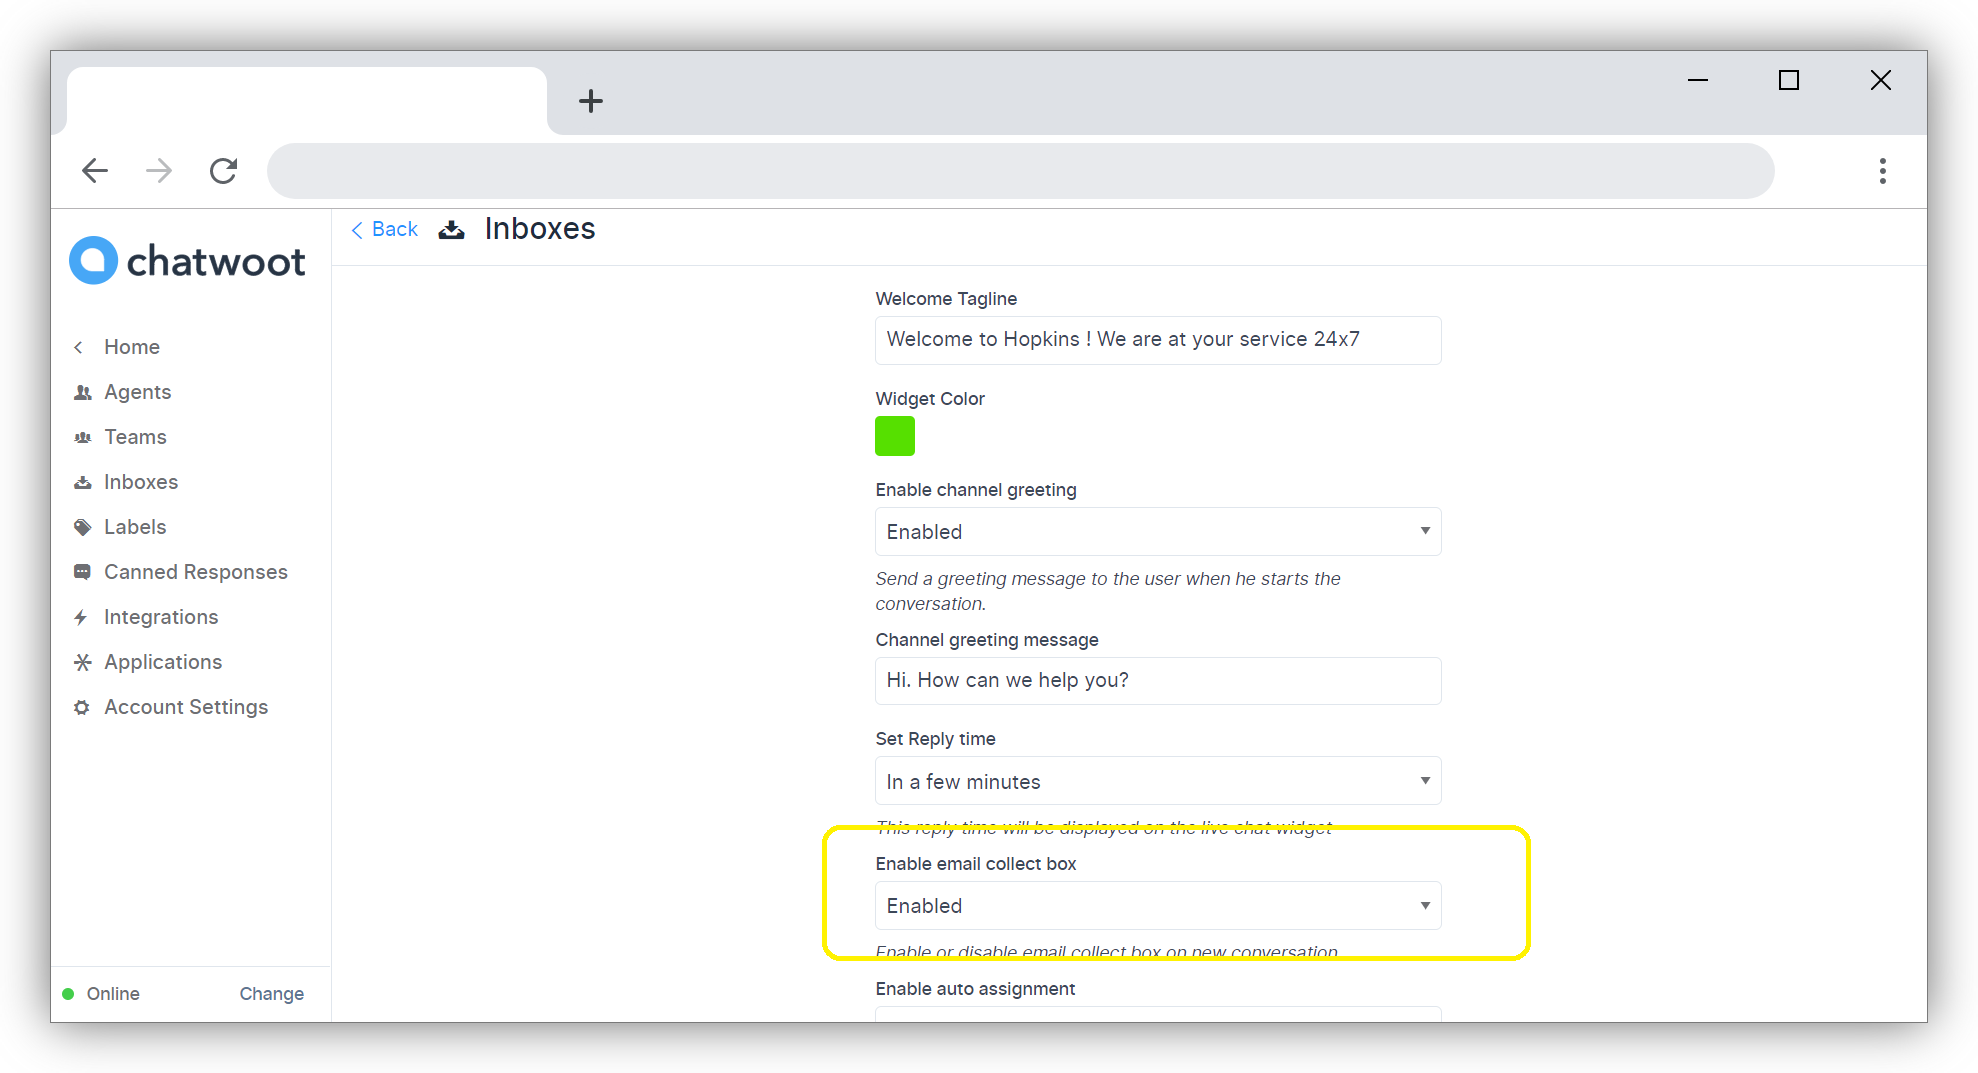
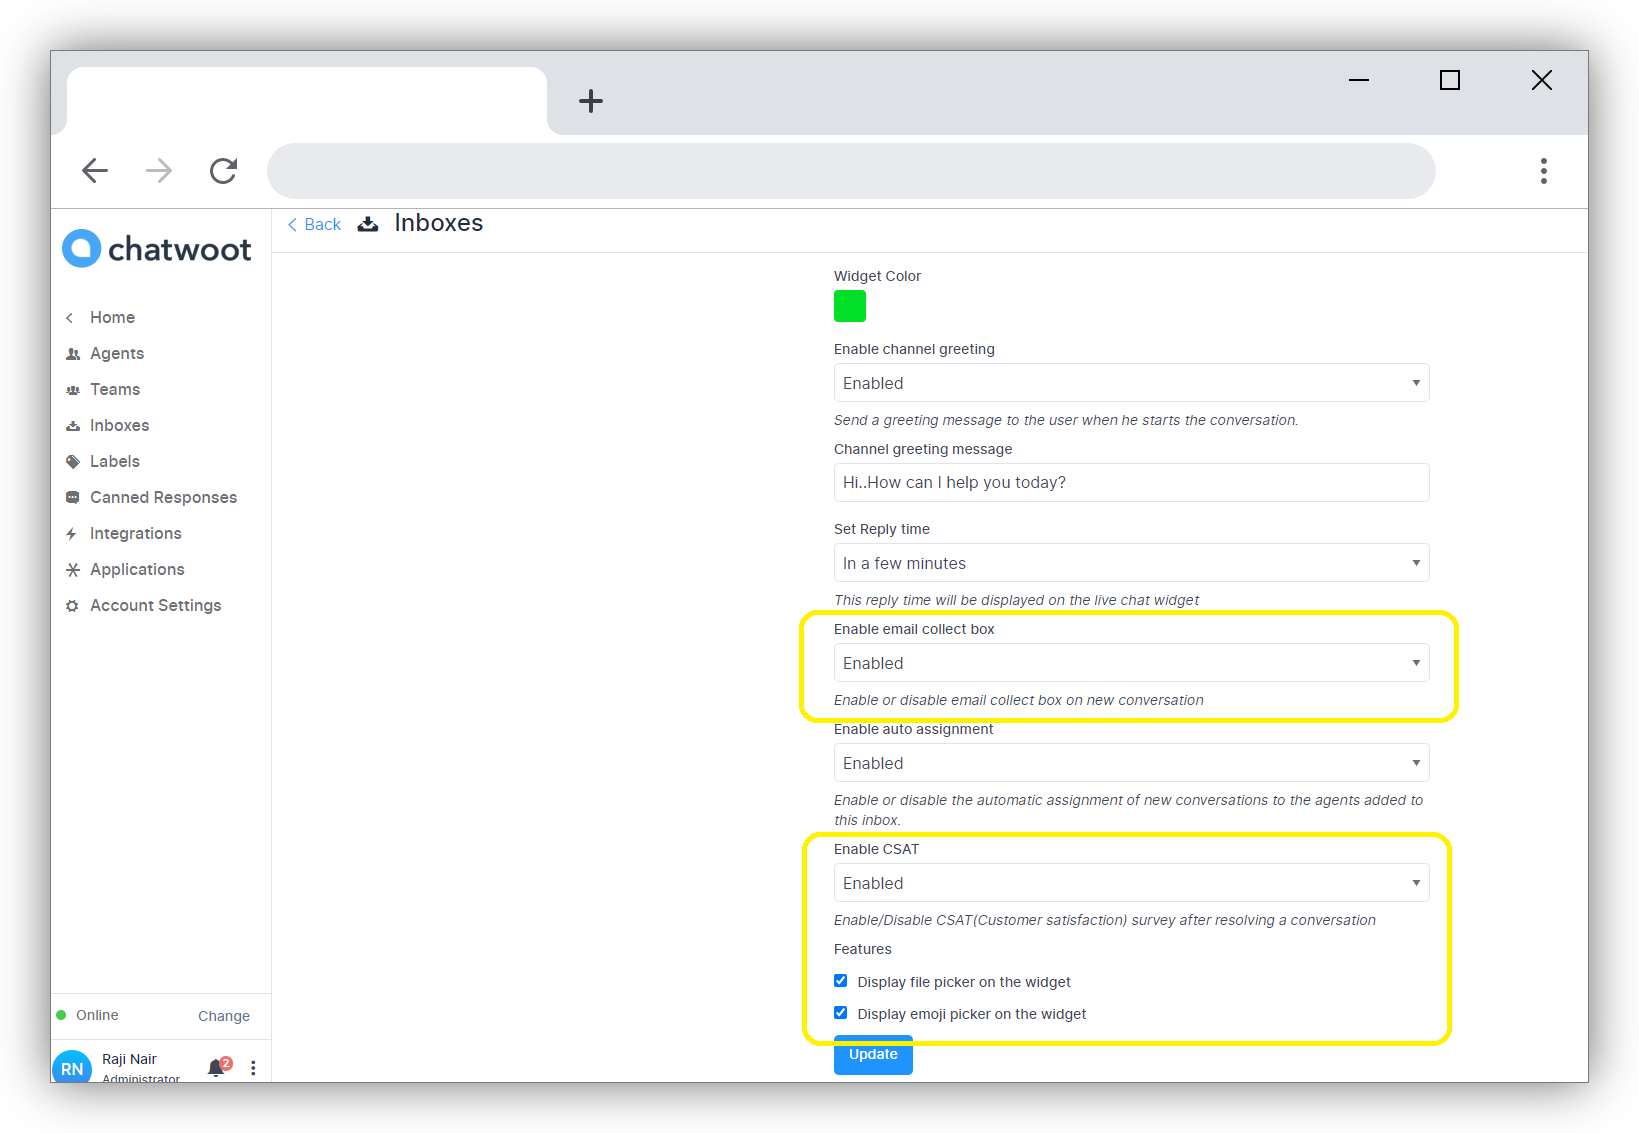
campaigns,prechatforms,csat,contacts added

diff --git a/docs/user-guide/add-inbox-settings.md b/docs/user-guide/add-inbox-settings.md
@@ -108,6 +108,104 @@ Do a scroll down to reach the below screen.
 
 Here, Enable email collect box is Enabled by default. This means an automatic message to collect the e-mail id will be displayed once the customer starts a conversation. Customer/End user will recieve a prompt to enter e-mail id.
 
+Also, there is an option to Enable CSAT. Once you enable this Customer Satisfaction survey will be launched on Resolving each ticket. The CSAT results can be viewed later in Reports section.
+
+Click on Campaigns on the Inbox Settings.
+
+<div align="center">
+
+<img src={require('../../static/img/campaigns1.png').default} width="800" alt="Enable Developer Mode" />
+
+</div>   
+
+### Collaborators
+
+Click on Collaborators. You can add or delets Agents in the Inbox in this section.
+
+<div align="center">
+
+<img src={require('../../static/img/collaborators1.png').default} width="800" alt="Enable Developer Mode" />
+
+</div>   
+
+Click on Update to save the changes.
+
+### Campaigns
+
+Click on Create a Campaign on the right hand side. Below Window will pop open.
+
+<div align="center">
+
+<img src={require('../../static/img/campaigns2.png').default} width="800" alt="Enable Developer Mode" />
+
+</div>   
+
+| Field Name            | Value                                                                                        | Remarks                                                                            |
+|-----------------------|----------------------------------------------------------------------------------------------|------------------------------------------------------------------------------------|
+| Title                 | Give a name or Title for your campaign                                                       | Initiate Campaign                                                                  |
+| Message               | Give a message to initiate conversation with the customer                                    | We are just a click away                                                           |
+| Sent by               | Select the value from the drop down. Bot or agent name can be selcted                        | Whatever is selected here will  be displayed on screen along with campaign message |
+| URL                   | Give the URL of the site for which the widget is configured                                  | eg: www.hopkins.com                                                                |
+| Time on page(Seconds) | Give the number of seconds after which the campaign message should  be displayed to customer | by default it is 10                                                                |
+| Enable campaign       | click on check box if the message needs to be sent on screen after the set time              | if this is disabled, message will  not be sent                                     |  
+
+Click on update. The campaign that you have created will appear in the campaign seciton. You can edit or delete the Campaign as per your wish.
+
+<div align="center">
+
+<img src={require('../../static/img/campaigns3.png').default} width="800" alt="Enable Developer Mode" />
+
+</div>   
+
+### Pre Chat Form
+
+In the Inbox Settings, click on the tab Pre Chat Form. This is an option to display message to the Customer when the customer clicks on the widget. We can use this to collect name and e-mail address before beginning the chat.
+
+<div align="center">
+
+<img src={require('../../static/img/prechatform2.png').default} width="800" alt="Enable Developer Mode" />
+
+</div>   
+
+| Field Name                                                                     | Value                                                                     | Remarks                                                            |
+|--------------------------------------------------------------------------------|---------------------------------------------------------------------------|--------------------------------------------------------------------|
+| Enable pre chat form                                                           | Select Yes or No                                                          | Yes if you want to use the prechat  form. No if you do not want to |
+| Pre Chat Message                                                               | Give a message to start conversation  with the customer                   | Hi ..We need some information to serve you better                  |
+| Visitors should provide their name  and email address before starting the chat | Tick on the check box if you need the  name and email address mandatorily | This will help us maintain our  contact list better                |  
+
+Click on update. Pre Chat Form is enabled now.
+
+### Business Hours
+
+Click on Business Hours Tab.
+
+
+<div align="center">
+
+<img src={require('../../static/img/businesshour1.png').default} width="800" alt="Enable Developer Mode" />
+
+</div>   
+
+Click on the check box for 'Enable business availability for this inbox' if you have well defined busines hours.  
+Once the check box is ticked, the below section opens up where you can give your message to the customer during OFF business hours. You can also select the available business hours for each day of the week, along with proper time zone.
+
+<div align="center">
+
+<img src={require('../../static/img/businesshour2.png').default} width="800" alt="Enable Developer Mode" />
+
+</div>   
+
+Click on Update Business Hour Setting Button.
+
+### Configuration
+
+Click on Configuration. The code snippet to be copied to the website will appear here.
+
+<div align="center">
+
+<img src={require('../../static/img/settingupchatwootwidgeta.png').default} width="800" alt="Enable Developer Mode" />
+ 
+</div> 
 
 
 

diff --git a/docs/user-guide/conversation-workflow.md b/docs/user-guide/conversation-workflow.md
@@ -1,6 +1,7 @@
 ---
 title: "Conversation Workflow"
 ---
+
 The customer initiates a conversation from the website front end - through the widget.
 
 For example: Customer types in 'hi'
@@ -13,6 +14,28 @@ For example: Customer types in 'hi'
 
 Automated response set in[channel greeting message](add-inbox-settings.md) will immediately be displayed on the screen as a reply.
 In addition, two more automated messages will be sent by 'bot' to collect customer's information - email id - for further communication and record.
+
+### Campaigns
+
+If the customer does not initiate conversation and you have enabled [Campaign message](add-inbox-settings.md), the message will be displayed on the screen just above the widget to attract customer attention.  
+
+<div align="center">
+
+<img src={require('../../static/img/campaign4.png').default} width="800" alt="Enable Developer Mode" />
+
+</div>
+
+
+### Pre Chat Forms
+
+If we have enabled [Pre Chat forms](add-inbox-settings.md) in Inbox, as soon as the customer clicks on chat widget, the message requesting for name and e-mail id will appear on screen as below.
+
+<div align="center">
+
+<img src={require('../../static/img/prechatform.png').default} width="800" alt="Enable Developer Mode" />
+
+</div>
+
 
 Now let us look at how this message is captured in the Agent Dashboard.  
 
@@ -203,7 +226,8 @@ Click on Submit. A message will be displayed "The chat transcript was sent succe
 
 
 ## Transfering Agents
-<!-- TODO check with Nithin on ways to transfer agent other than assign agent-->
+
+You can transfer the ticket/issue to another agent by selecting a different agent from Assign Agent option. The whole conversation will be visible to the newly selected agent.
 
 ## Setting Reminders and Status 
 
@@ -234,6 +258,21 @@ The Conversations can be selected and viewed as per their status on the Conversa
 <img src={require('../../static/img/howconversationhappens20.png').default} width="800" alt="Enable Developer Mode" />
 
 </div>  
+
+## CSAT 
+
+Once the ticket or conversation is marked as 'Resolved', if the [CSAT option ](add-inbox-settings.md) is enabled, the survey will be sent to customer in the widget as below
+
+<div align="center">
+
+<img src={require('../../static/img/csat1.png').default} width="800" alt="Enable Developer Mode" />
+
+</div>  
+
+The response from the customer can be viewed in CSAT section in Reports.
+
+
+
 
 
 

diff --git a/docs/user-guide/contacts.md b/docs/user-guide/contacts.md
@@ -1,3 +1,44 @@
 ---
 title: "Contacts"
 ---
+
+Click on Contacts on Home Screen.
+
+<div align="center">
+
+<img src={require('../../static/img/homecontacts.png').default} width="800" alt="Enable Developer Mode" />
+
+</div>
+
+Below section will open up. 
+<div align="center">
+
+<img src={require('../../static/img/emptycontacts.png').default} width="800" alt="Enable Developer Mode" />
+
+</div>
+Contacts can be added to the list in 3 ways. One is to add the contact yourself by clicking the New Contact button on the right hand side.  
+
+<div align="center">
+
+<img src={require('../../static/img/createnewcontact.png').default} width="800" alt="Enable Developer Mode" />
+
+</div>
+
+Second way is to collect the contact information through [Pre chat forms](add-inbox-settings.md)
+
+<div align="center">
+
+<img src={require('../../static/img/prechatform1.png').default} width="800" alt="Enable Developer Mode" />
+
+</div>
+
+Third way is if the customer enters the email id in the Channel Greeting message
+
+<div align="center">
+
+<img src={require('../../static/img/howconversationhappens1.png').default} width="800" alt="Enable Developer Mode" />
+
+</div>
+
+Once the contacts are available in your contact list, you can edit the details as and when available.
+
